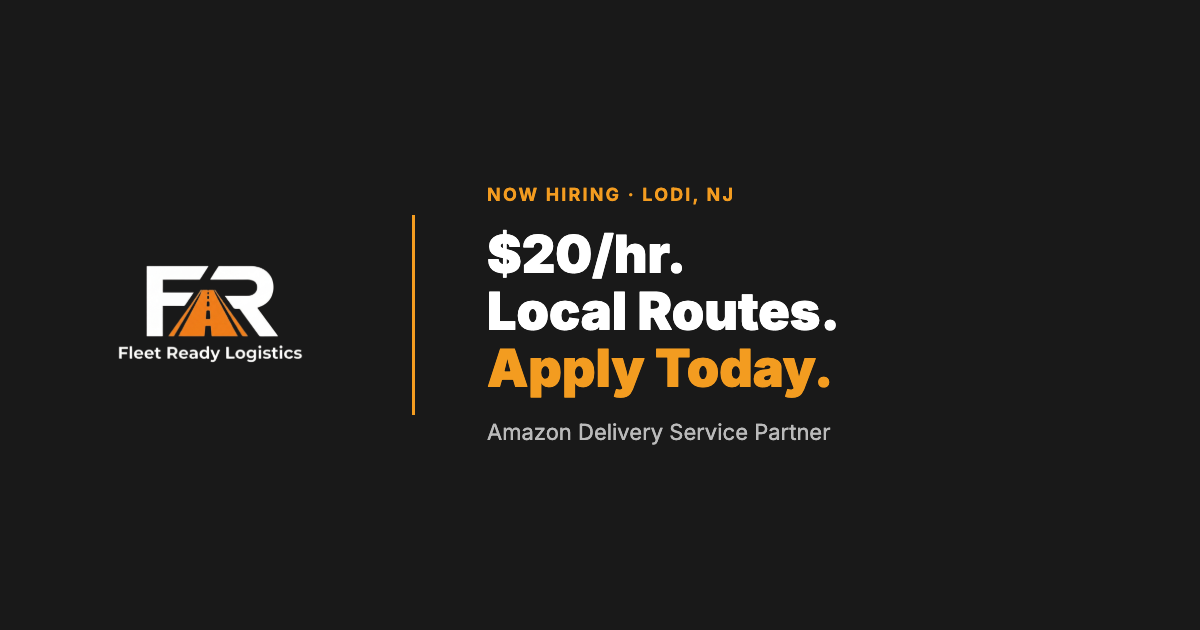
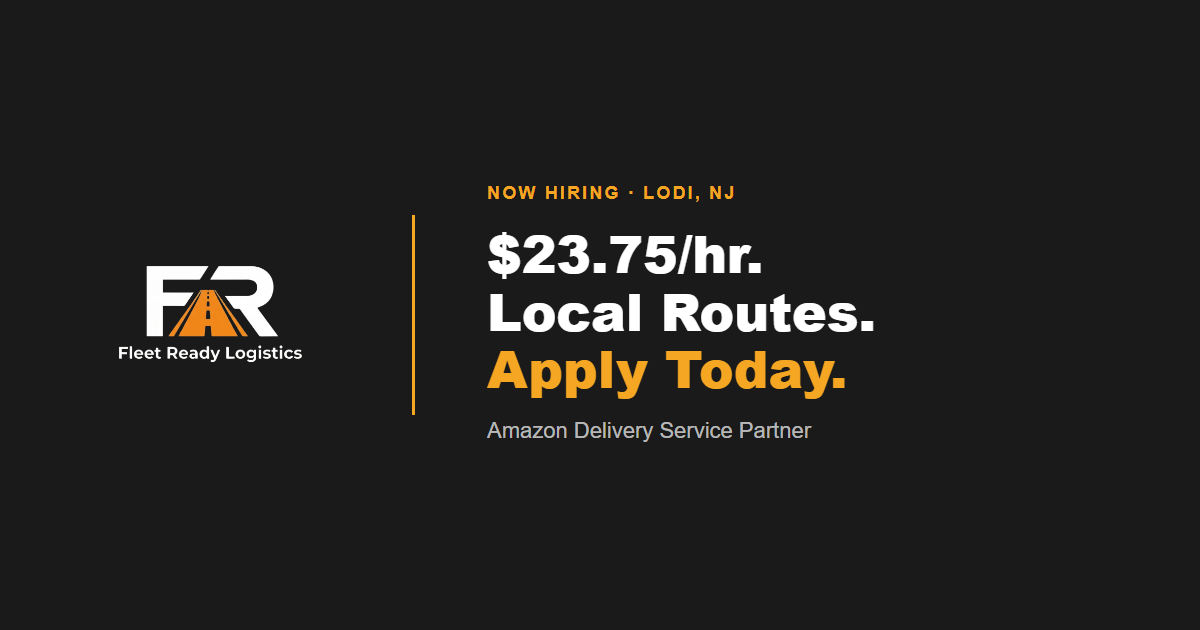
Update OG preview image to show $23.75/hr
Template was previously edited to "Good Pay." but the rendered PNG
still showed the old "$20/hr." text. Updated template to "$23.75/hr."
to match current pay rate and regenerated assets/og-image.png from it.

Changed region(s): [[0.4008, 0.3619, 0.74, 0.6333], [0.4008, 0.6635, 0.7092, 0.7238], [0.4008, 0.2714, 0.6167, 0.3317]]

diff --git a/og-image-template.html b/og-image-template.html
@@ -74,7 +74,7 @@
     <div class="divider"></div>
     <div class="text">
       <div class="tag">Now Hiring · Lodi, NJ</div>
-      <h1>Good Pay.<br>Local Routes.<br><em>Apply Today.</em></h1>
+      <h1>$23.75/hr.<br>Local Routes.<br><em>Apply Today.</em></h1>
       <div class="sub">Amazon Delivery Service Partner</div>
     </div>
   </div>
